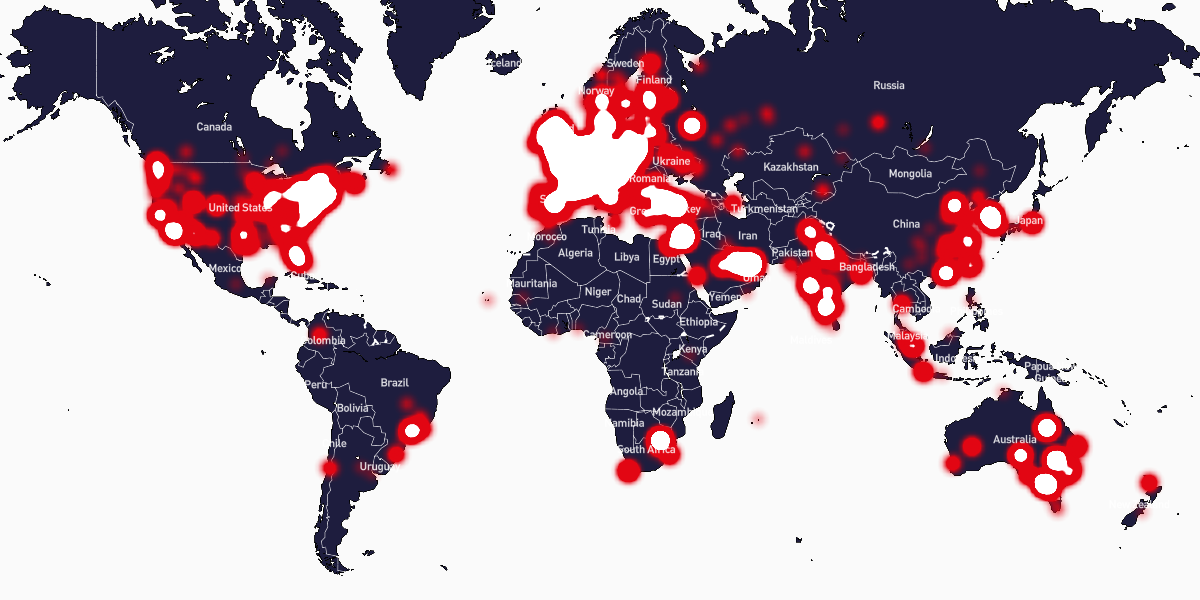
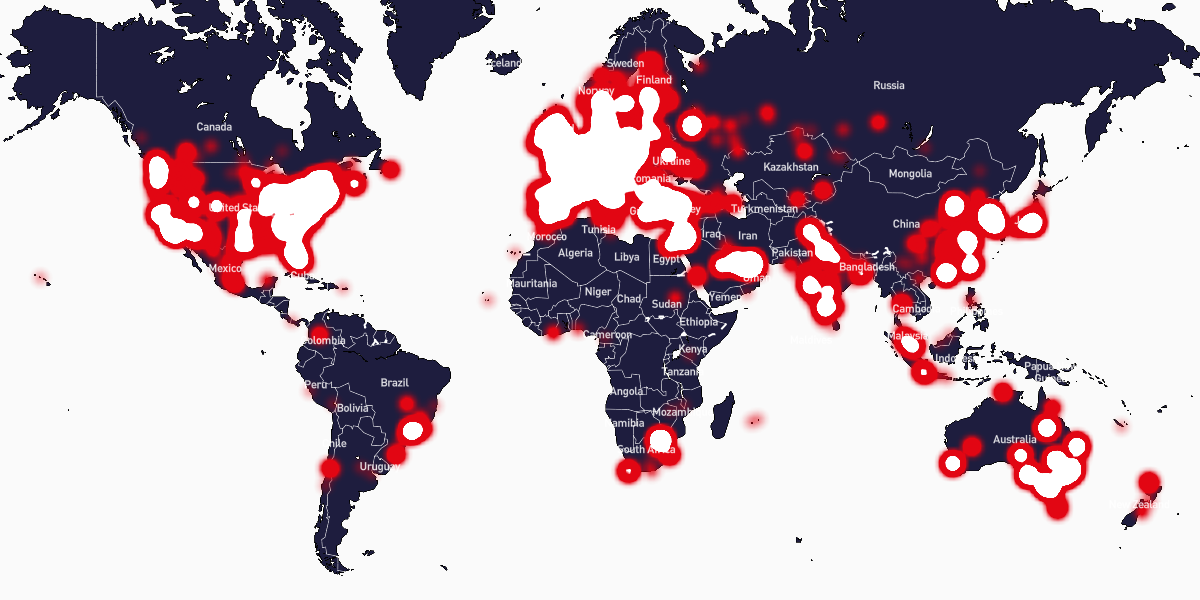
Validate JSON files individually. Add contribution documentation. Use Python Virtualenv. Update example images.

diff --git a/docs/contribute.md b/docs/contribute.md
@@ -1,0 +1,84 @@
+# Contributing to the project
+
+## Prerequisites
+
+The data processing and validation tools in this repository require:
+
+-   Bash
+-   Gnu Make
+-   Grep
+-   JQ
+-   Python3
+-   Virtualenv
+-   Additional Python packages listed in `tools/requirements.txt`
+
+In addition, the optional image generation tools require:
+
+-   Chromedriver
+
+On a Debian-like operating system, these prerequisites can be installed with:
+
+
+```
+sudo apt install \
+   bash make grep jq python3 virtualenv \
+   chromium-chromedriver
+```
+
+
+## Initial set up
+
+### Environment
+
+In Bash, set up a virtual Python environment and install necessary packages:
+
+```
+virtualenv -p python3 .venv
+.venv/bin/python3 -m pip install -r tools/requirements.txt
+```
+
+
+### Validation
+
+Validate existing files, in parallel, using all available cores:
+
+```
+make -j validate
+```
+
+The first time this is run it will take some time and generate a lot of output.
+
+
+### View tasks
+
+```
+make task
+```
+
+This command will print out a list of:
+
+-   Predicted upcoming fairs to investigate and add to the repository
+-   Known fairs for which exhibitor lists may have become available
+-   Known fairs for which exhibitor list sources should be checked for updates
+
+
+## Adding data
+
+JSON data should be added, one file per event, in a path like `data/<slug>-<year>.json`, where:
+
+-   `<year>` is the four-digit year of the event's data
+    -   For postponed events, use the year of the original intenteded date.
+-   `<slug>` is a short form of the fair' series name
+    -   Use only lowercase-alpha, numeric and hyphen characters
+    -   Search the existing data and use slugs for the same series if they already exist
+    -   When series change their name, we update all previous slugs to match the new name
+        Eg. `hdse-2017` was changed to `3cdse-2017` when the series changed name in 2018.
+
+The JSON data must match the schema defined in `schema/fair.schema.json`. The validation command above will fail for any fairs where this is not the case.
+
+CSV data is permitted, one file per event, in the form `data/<slug>-<year>.csv`.
+
+-   Use consistent quoting for CSV formats. Either all fields should be quoted or none should be.
+-   If choosing not to quote any fields, semicolons may be preferred as delimiters as they seldom occur in source data
+
+
